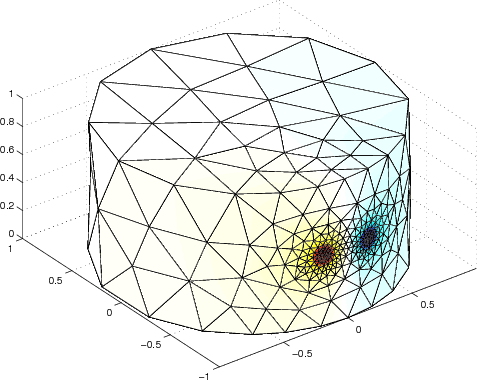
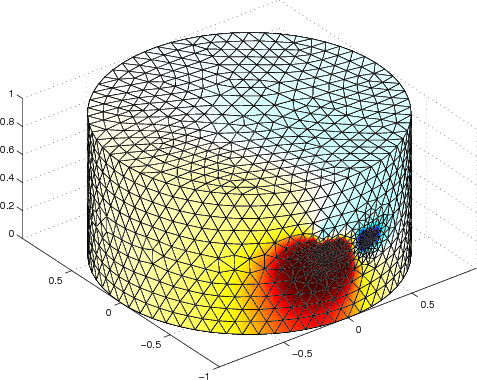
more images
git-svn-id: svn://svn.code.sf.net/p/eidors3d/code/trunk@2958 82006732-fb7e-4a22-9f28-86a212cce563

diff --git a/htdocs/tutorial/EIDORS_basics/view_3D_surf04.m b/htdocs/tutorial/EIDORS_basics/view_3D_surf04.m
@@ -2,7 +2,7 @@
 el_pos = [190,0.5;170,0.5];
 extra = {'cube',['solid cube = orthobrick(-0.2 ,-0.97,0.6;0.2,0,0.7) or ' ...
                               'orthobrick( 0.15,-0.97,0.4;0.2,0,0.7) ;']};
-[fmdl,mat_idx]= ng_mk_cyl_models([1,1,.03],el_pos,[0.05,0,0.05],extra); 
+[fmdl,mat_idx]= ng_mk_cyl_models([1,1,.05],el_pos,[0.05,0,0.05],extra); 
 
 % Solve fwd model
 fmdl.stimulation(1).stim_pattern = [1;-1];
@@ -13,7 +13,7 @@ img.fwd_solve.get_all_meas = 1;
 vh=fwd_solve(img);
 
 clf;show_fem(img);
-print_convert view_3D_surf01a.png '-density 75'
+print_convert view_3D_surf04a.png '-density 75'
 view(0,0);
-print_convert view_3D_surf01a.png '-density 75'
+print_convert view_3D_surf04b.png '-density 75'
 

diff --git a/htdocs/tutorial/EIDORS_basics/view_3D_surf05.m b/htdocs/tutorial/EIDORS_basics/view_3D_surf05.m
@@ -1,12 +1,12 @@
 imgv = rmfield(img,'elem_data');
 imgv.node_data = vh.volt(:,1);
 
-imgv.calc_colours.clim = 0.3;
+imgv.calc_colours.clim = 0.3; % Colour limits
 colours = calc_colours(imgv,[]);
 show_fem(fmdl);
 patch('Faces',fmdl.boundary,'Vertices',fmdl.nodes, 'facecolor','interp', ...
       'facevertexcdata',colours,'CDataMapping','direct'); 
 
-print_convert view_3D_surf02a.png '-density 75'
+print_convert view_3D_surf05a.png '-density 75'
 view(0,0)
-print_convert view_3D_surf02b.png '-density 75'
+print_convert view_3D_surf05b.png '-density 75'
